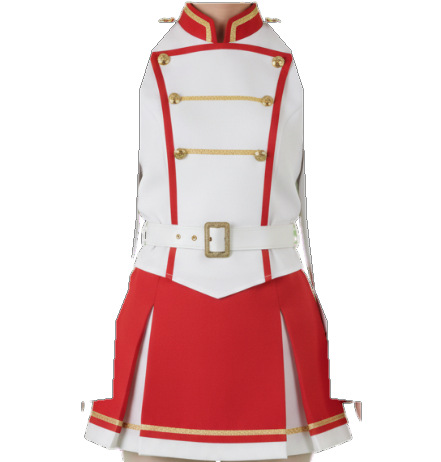
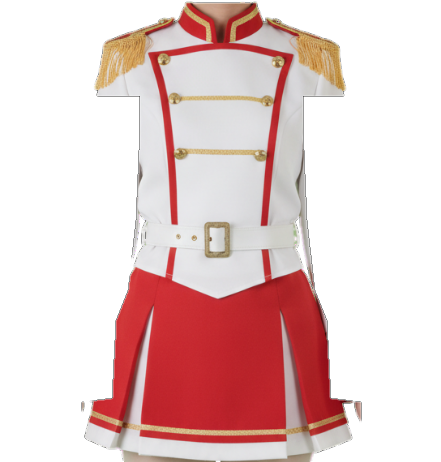
feat(rig-foto): doble perfil en el hombro (el hombro del torso se dibuja encima del brazo)
El brazo lleva su propio hombro redondo y el torso conserva el suyo; el pivote queda en la
union. En reposo se ve identico a la foto y al girar no se ve ningun corte.

Changed region(s): [[0.5896, 0.0303, 0.7959, 0.2121], [0.2063, 0.0303, 0.4127, 0.2121]]

diff --git a/scripts/kit-foto-rig.js b/scripts/kit-foto-rig.js
@@ -7,8 +7,8 @@ const { createCanvas, loadImage } = require('@napi-rs/canvas');
 const KIT = path.join(__dirname, '..', 'assets', 'kit'), SAL = path.join(__dirname, '..', 'assets', 'foto-rig');
 const interp = (pts, y) => { if (y <= pts[0][0]) return pts[0][1]; for (let i = 1; i < pts.length; i++) if (y <= pts[i][0]) { const [y0, v0] = pts[i - 1], [y1, v1] = pts[i]; return v0 + (v1 - v0) * (y - y0) / (y1 - y0); } return pts[pts.length - 1][1]; };
 // borde interior del brazo izquierdo (el que da al torso) por fila; el derecho es el espejo respecto al eje x = CX
-const CX = 221, BORDE = [[22, 176], [50, 152], [88, 140], [150, 139], [220, 136], [290, 128], [320, 116], [398, 112], [402, 82], [470, 82]], Y_HOMBRO = 22, PIV_Y = 40, Y_CODO = 280, Y_MANO = 470, Y_CADERA = 458;
-const EJE_BRAZO = 104; // x del eje del brazo (centro de la manga) en la foto
+const CX = 221, BORDE = [[40, 160], [88, 140], [150, 139], [220, 136], [290, 128], [320, 116], [398, 112], [402, 82], [470, 82]], Y_PIV = 66, R_HOMBRO = 38, Y_HOMBRO = Y_PIV - R_HOMBRO, PIV_Y = R_HOMBRO, Y_CORE = 96, Y_CODO = 280, Y_MANO = 470, Y_CADERA = 458;
+const EJE_BRAZO = 108; // x del eje del brazo (centro de la manga) en la foto
 
 function pixeles(img) { const c = createCanvas(img.width, img.height), x = c.getContext('2d'); x.drawImage(img, 0, 0); return { c, x, id: x.getImageData(0, 0, img.width, img.height) }; }
 // suaviza el alfa (3x3) para que los cortes rectos no se vean dentados; no toca el color
@@ -23,12 +23,21 @@ async function cuerpo() {
   const dentroBrazoI = (x, y) => y >= Y_HOMBRO && y <= Y_MANO && x < interp(BORDE, y), dentroBrazoD = (x, y) => y >= Y_HOMBRO && y <= Y_MANO && (W - 1 - x + (2 * CX - W + 1)) < interp(BORDE, y);
   // torso + falda: todo menos los brazos, hasta la línea de la cadera
   const core = createCanvas(W, Y_CADERA + 4), cx = core.getContext('2d'), cid = cx.createImageData(W, Y_CADERA + 4);
-  for (let y = 0; y < Y_CADERA + 4; y++) for (let x = 0; x < W; x++) { if (dentroBrazoI(x, y) || dentroBrazoD(x, y)) continue; const i = (y * W + x) * 4, o = i; cid.data[o] = d[i]; cid.data[o + 1] = d[i + 1]; cid.data[o + 2] = d[i + 2]; cid.data[o + 3] = d[i + 3]; }
+  for (let y = 0; y < Y_CADERA + 4; y++) for (let x = 0; x < W; x++) { if (y >= Y_CORE && (dentroBrazoI(x, y) || dentroBrazoD(x, y))) continue; const i = (y * W + x) * 4, o = i; cid.data[o] = d[i]; cid.data[o + 1] = d[i + 1]; cid.data[o + 2] = d[i + 2]; cid.data[o + 3] = d[i + 3]; }
   cx.putImageData(cid, 0, 0); guardar(core, 'torso');
   // brazo (el izquierdo de la foto), recortado y centrado en su eje; el derecho se obtiene espejando este
   const aw = 2 * (EJE_BRAZO + 6), ah = Y_MANO - Y_HOMBRO + 4, br = createCanvas(aw, ah), bx = br.getContext('2d'), bid = bx.createImageData(aw, ah);
-  for (let y = Y_HOMBRO; y < Y_HOMBRO + ah; y++) for (let x = 0; x < EJE_BRAZO + 80; x++) { if (!dentroBrazoI(x, y)) continue; const ox = x - EJE_BRAZO + aw / 2, oy = y - Y_HOMBRO; if (ox < 0 || ox >= aw) continue; const i = (y * W + x) * 4, o = (oy * aw + ox) * 4; bid.data[o] = d[i]; bid.data[o + 1] = d[i + 1]; bid.data[o + 2] = d[i + 2]; bid.data[o + 3] = d[i + 3]; }
-  bx.putImageData(bid, 0, 0); guardar(br, 'brazo-abierto'); guardar(br, 'brazo-puno');
+  // color de la manga (blanco del uniforme) para el disco del hombro
+  let mr = 0, mg = 0, mb = 0, mn = 0; for (let y = 110; y < 130; y++) for (let x = 70; x < 130; x++) { const i = (y * W + x) * 4; if (d[i + 3] > 250 && d[i] > 190 && Math.abs(d[i] - d[i + 2]) < 16) { mr += d[i]; mg += d[i + 1]; mb += d[i + 2]; mn++; } }
+  const colM = mn ? `rgb(${Math.round(mr / mn)},${Math.round(mg / mn)},${Math.round(mb / mn)})` : '#e8e8e8';
+  for (let y = Y_PIV; y < Y_HOMBRO + ah; y++) for (let x = 0; x < EJE_BRAZO + 80; x++) { if (!dentroBrazoI(x, y)) continue; const ox = x - EJE_BRAZO + aw / 2, oy = y - Y_HOMBRO; if (ox < 0 || ox >= aw) continue; const i = (y * W + x) * 4, o = (oy * aw + ox) * 4; bid.data[o] = d[i]; bid.data[o + 1] = d[i + 1]; bid.data[o + 2] = d[i + 2]; bid.data[o + 3] = d[i + 3]; }
+  bx.fillStyle = colM; bx.beginPath(); bx.arc(aw / 2 + 4, R_HOMBRO, 24, 0, Math.PI * 2); bx.fill();
+  const tmp = createCanvas(aw, ah); tmp.getContext('2d').putImageData(bid, 0, 0); bx.drawImage(tmp, 0, 0);
+  guardar(br, 'brazo-abierto'); guardar(br, 'brazo-puno');
+  // hombros del torso (a la izquierda y derecha del cuello), se dibujan ENCIMA del brazo: ahí está la unión; el borde inferior se desvanece
+  { const hh = Y_CORE + 16, hc = createCanvas(W, hh), hx = hc.getContext('2d'), hid = hx.createImageData(W, hh);
+    for (let y = 0; y < hh; y++) for (let x = 0; x < W; x++) { if (Math.abs(x - CX) < 64) continue; const i = (y * W + x) * 4, f = y < Y_CORE ? 1 : (hh - y) / 16; hid.data[i] = d[i]; hid.data[i + 1] = d[i + 1]; hid.data[i + 2] = d[i + 2]; hid.data[i + 3] = Math.round(d[i + 3] * f); }
+    hx.putImageData(hid, 0, 0); guardar(hc, 'hombros'); }
   // piernas: desde justo bajo el dobladillo hasta las botas; en las filas de las manos solo la zona central
   const lg = createCanvas(W, H - Y_CADERA), lx = lg.getContext('2d'), lid = lx.createImageData(W, H - Y_CADERA);
   for (let y = Y_CADERA; y < H; y++) for (let x = 0; x < W; x++) { if (y < Y_MANO && (x < 100 || x > 342)) continue; const i = (y * W + x) * 4, o = ((y - Y_CADERA) * W + x) * 4; lid.data[o] = d[i]; lid.data[o + 1] = d[i + 1]; lid.data[o + 2] = d[i + 2]; lid.data[o + 3] = d[i + 3]; }
@@ -65,6 +74,6 @@ async function cabeza() {
 (async () => {
   fs.mkdirSync(SAL, { recursive: true });
   const c = await cuerpo(), h = await cabeza();
-  fs.writeFileSync(path.join(SAL, 'rig.json'), JSON.stringify({ descripcion: 'Piezas del rig de fotos (cuerpo FICTICIO genérico + cabeza FICTICIA). Coordenadas en píxeles de estas piezas.', cuerpo: c, cabeza: h, CX, EJE_BRAZO, Y_HOMBRO, PIV_Y, Y_CODO, Y_MANO, Y_CADERA, codoFrac: (Y_CODO - Y_HOMBRO) / (Y_MANO - Y_HOMBRO + 4), largo: { sup: Y_CODO - Y_HOMBRO - PIV_Y, ant: Y_MANO - 30 - Y_CODO } }, null, 2));
+  fs.writeFileSync(path.join(SAL, 'rig.json'), JSON.stringify({ descripcion: 'Piezas del rig de fotos (cuerpo FICTICIO genérico + cabeza FICTICIA). Coordenadas en píxeles de estas piezas.', cuerpo: c, cabeza: h, CX, EJE_BRAZO, Y_HOMBRO, PIV_Y, Y_CODO, Y_MANO, Y_CADERA, codoFrac: (Y_CODO - Y_HOMBRO) / (Y_MANO - Y_HOMBRO + 4), largo: { sup: Y_CODO - Y_PIV, ant: Y_MANO - 30 - Y_CODO } }, null, 2));
   console.log('listo', SAL, JSON.stringify(h));
 })().catch(e => { console.error('FALLO', e); process.exit(1); });

diff --git a/lienzo/titere-rig.js b/lienzo/titere-rig.js
@@ -31,8 +31,8 @@ const TRAJES_RIG = {
 // (el cuello queda detrás del cuello alto del uniforme) y la cara es la de la foto (sin expresiones dibujadas).
 const RIG_FOTO = path.join(__dirname, '..', 'assets', 'foto-rig');
 try { const m = JSON.parse(fs.readFileSync(path.join(RIG_FOTO, 'rig.json'), 'utf8')), pv = m.cabeza.pivoteY;
-  TRAJES_RIG['bastonera-foto'] = { dir: RIG_FOTO, piezas: ['cabeza', 'pelo', 'torso', 'brazo-abierto', 'piernas'], torso: 'torso', falda: null, brazos: ['brazo-abierto', 'brazo-abierto'], piernas: true, piernasJuntas: true, cabezaAntes: true,
-    cabeza: { x: 0, y: 26, px: 0.5, py: pv }, pelo: { x: 0, y: 26, px: 0.5, py: pv }, torsoPiv: { px: 0.5, py: 0 }, hombro: { x: m.CX - m.EJE_BRAZO, y: m.Y_HOMBRO + m.PIV_Y }, cadera: { x: 0, y: m.Y_CADERA - 2 }, pies: m.cuerpo.H, alto: m.cuerpo.H + m.cabeza.neckY + 4, long: m.largo, brazoPivY: m.PIV_Y, codoFrac: m.codoFrac, codoDuro: true, caraFoto: m.cabeza.cara };
+  TRAJES_RIG['bastonera-foto'] = { dir: RIG_FOTO, piezas: ['cabeza', 'pelo', 'torso', 'hombros', 'brazo-abierto', 'piernas'], torso: 'torso', falda: null, brazos: ['brazo-abierto', 'brazo-abierto'], piernas: true, piernasJuntas: true, cabezaAntes: true,
+    cabeza: { x: 0, y: 26, px: 0.5, py: pv }, pelo: { x: 0, y: 26, px: 0.5, py: pv }, torsoPiv: { px: 0.5, py: 0 }, hombro: { x: m.CX - m.EJE_BRAZO, y: m.Y_HOMBRO + m.PIV_Y }, cadera: { x: 0, y: m.Y_CADERA - 2 }, pies: m.cuerpo.H, alto: m.cuerpo.H + m.cabeza.neckY + 4, long: m.largo, brazoPivY: m.PIV_Y, codoFrac: m.codoFrac, codoDuro: true, hombros: true, caraFoto: m.cabeza.cara };
   } catch { /* sin piezas de foto: el traje no existe */ }
 const ANCLAS_FOTO = { ojoY: 0.01, ojoDx: 0.17, ojoR: 0.058, bocaY: 0.33, bocaAncho: 0.118, cejaY: -0.075 }; // medidas sobre la foto de la cabeza ficticia (misma que usa recortes.muneco)
 const LONG = { sup: 150, ant: 118 }; // brazo superior y antebrazo hasta el centro de la mano (píxeles del armado)
@@ -143,7 +143,7 @@ function titereRig({ traje = 'bastonera', cx = 0.5, base = 0.9, alto = 0.5, esca
         if (R.codoDuro) { // codo en bisagra: dos tramos rígidos con ángulo marcado; un disco del color de la manga tapa la cuña que abre la esquina
           const piv = R.brazoPivY ?? 0, ci = R.codoInfo || { col: '#e8e8e8', r: wB * 0.3 };
           ctx.translate(-wB / 2, -piv);
-          if (Math.abs(c) > 10) { ctx.beginPath(); ctx.arc(wB / 2, cod, ci.r * 0.9, 0, Math.PI * 2); ctx.fillStyle = ci.col; ctx.fill(); } // relleno de la esquina, debajo de los dos tramos
+          if (Math.abs(c) > 10) { ctx.beginPath(); ctx.arc(wB / 2, cod, ci.r * 0.72, 0, Math.PI * 2); ctx.fillStyle = ci.col; ctx.fill(); } // relleno de la esquina, debajo de los dos tramos
           ctx.save(); ctx.beginPath(); ctx.rect(0, 0, wB, cod + 2); ctx.clip(); ctx.drawImage(im, 0, 0); ctx.restore(); // brazo superior (con todo el hombro)
           ctx.save(); ctx.translate(wB / 2, cod); ctx.rotate(-c * GRAD); ctx.translate(-wB / 2, -cod);
           ctx.save(); ctx.beginPath(); ctx.rect(0, cod - 2, wB, hB - cod + 4); ctx.clip(); ctx.drawImage(im, 0, 0); ctx.restore(); ctx.restore(); // antebrazo y mano
@@ -159,7 +159,8 @@ function titereRig({ traje = 'bastonera', cx = 0.5, base = 0.9, alto = 0.5, esca
       const delante = Boolean(G && G.delante && peso > 0.01);
       if (R.cabezaAntes) cabezaF();
       dib(img[R.torso], 0, -subir * 0.6, 0.5, 0, Math.sin(tAbs * 1.3 + 1) * 0.012, false);
-      if (!delante) { brazo(-1, sI, cI, manoI); brazo(1, sD, cD, manoD); }
+      if (!delante || R.hombros) { brazo(-1, sI, cI, manoI); brazo(1, sD, cD, manoD); }
+      if (R.hombros) dib(img.hombros, 0, -subir * 0.6, 0.5, 0, Math.sin(tAbs * 1.3 + 1) * 0.012, false); // el hombro del torso va encima del brazo: ahí está la unión
       // 4) cabeza con expresión modelada y accesorios (con cabezaAntes se dibuja antes del torso: el cuello queda detrás del cuello del traje)
       function cabezaF() {
       const hy = R.cabeza.y - subir * 0.8, im = img.cabeza;
@@ -177,7 +178,7 @@ function titereRig({ traje = 'bastonera', cx = 0.5, base = 0.9, alto = 0.5, esca
       ctx.restore();
       }
       if (!R.cabezaAntes) cabezaF();
-      if (delante) { brazo(-1, sI, cI, manoI); brazo(1, sD, cD, manoD); }
+      if (delante && !R.hombros) { brazo(-1, sI, cI, manoI); brazo(1, sD, cD, manoD); }
       ctx.restore();
       // pegatinas flotantes (bastón…) con resortes y giro opcional
       pegatinas.forEach((p, i) => {
